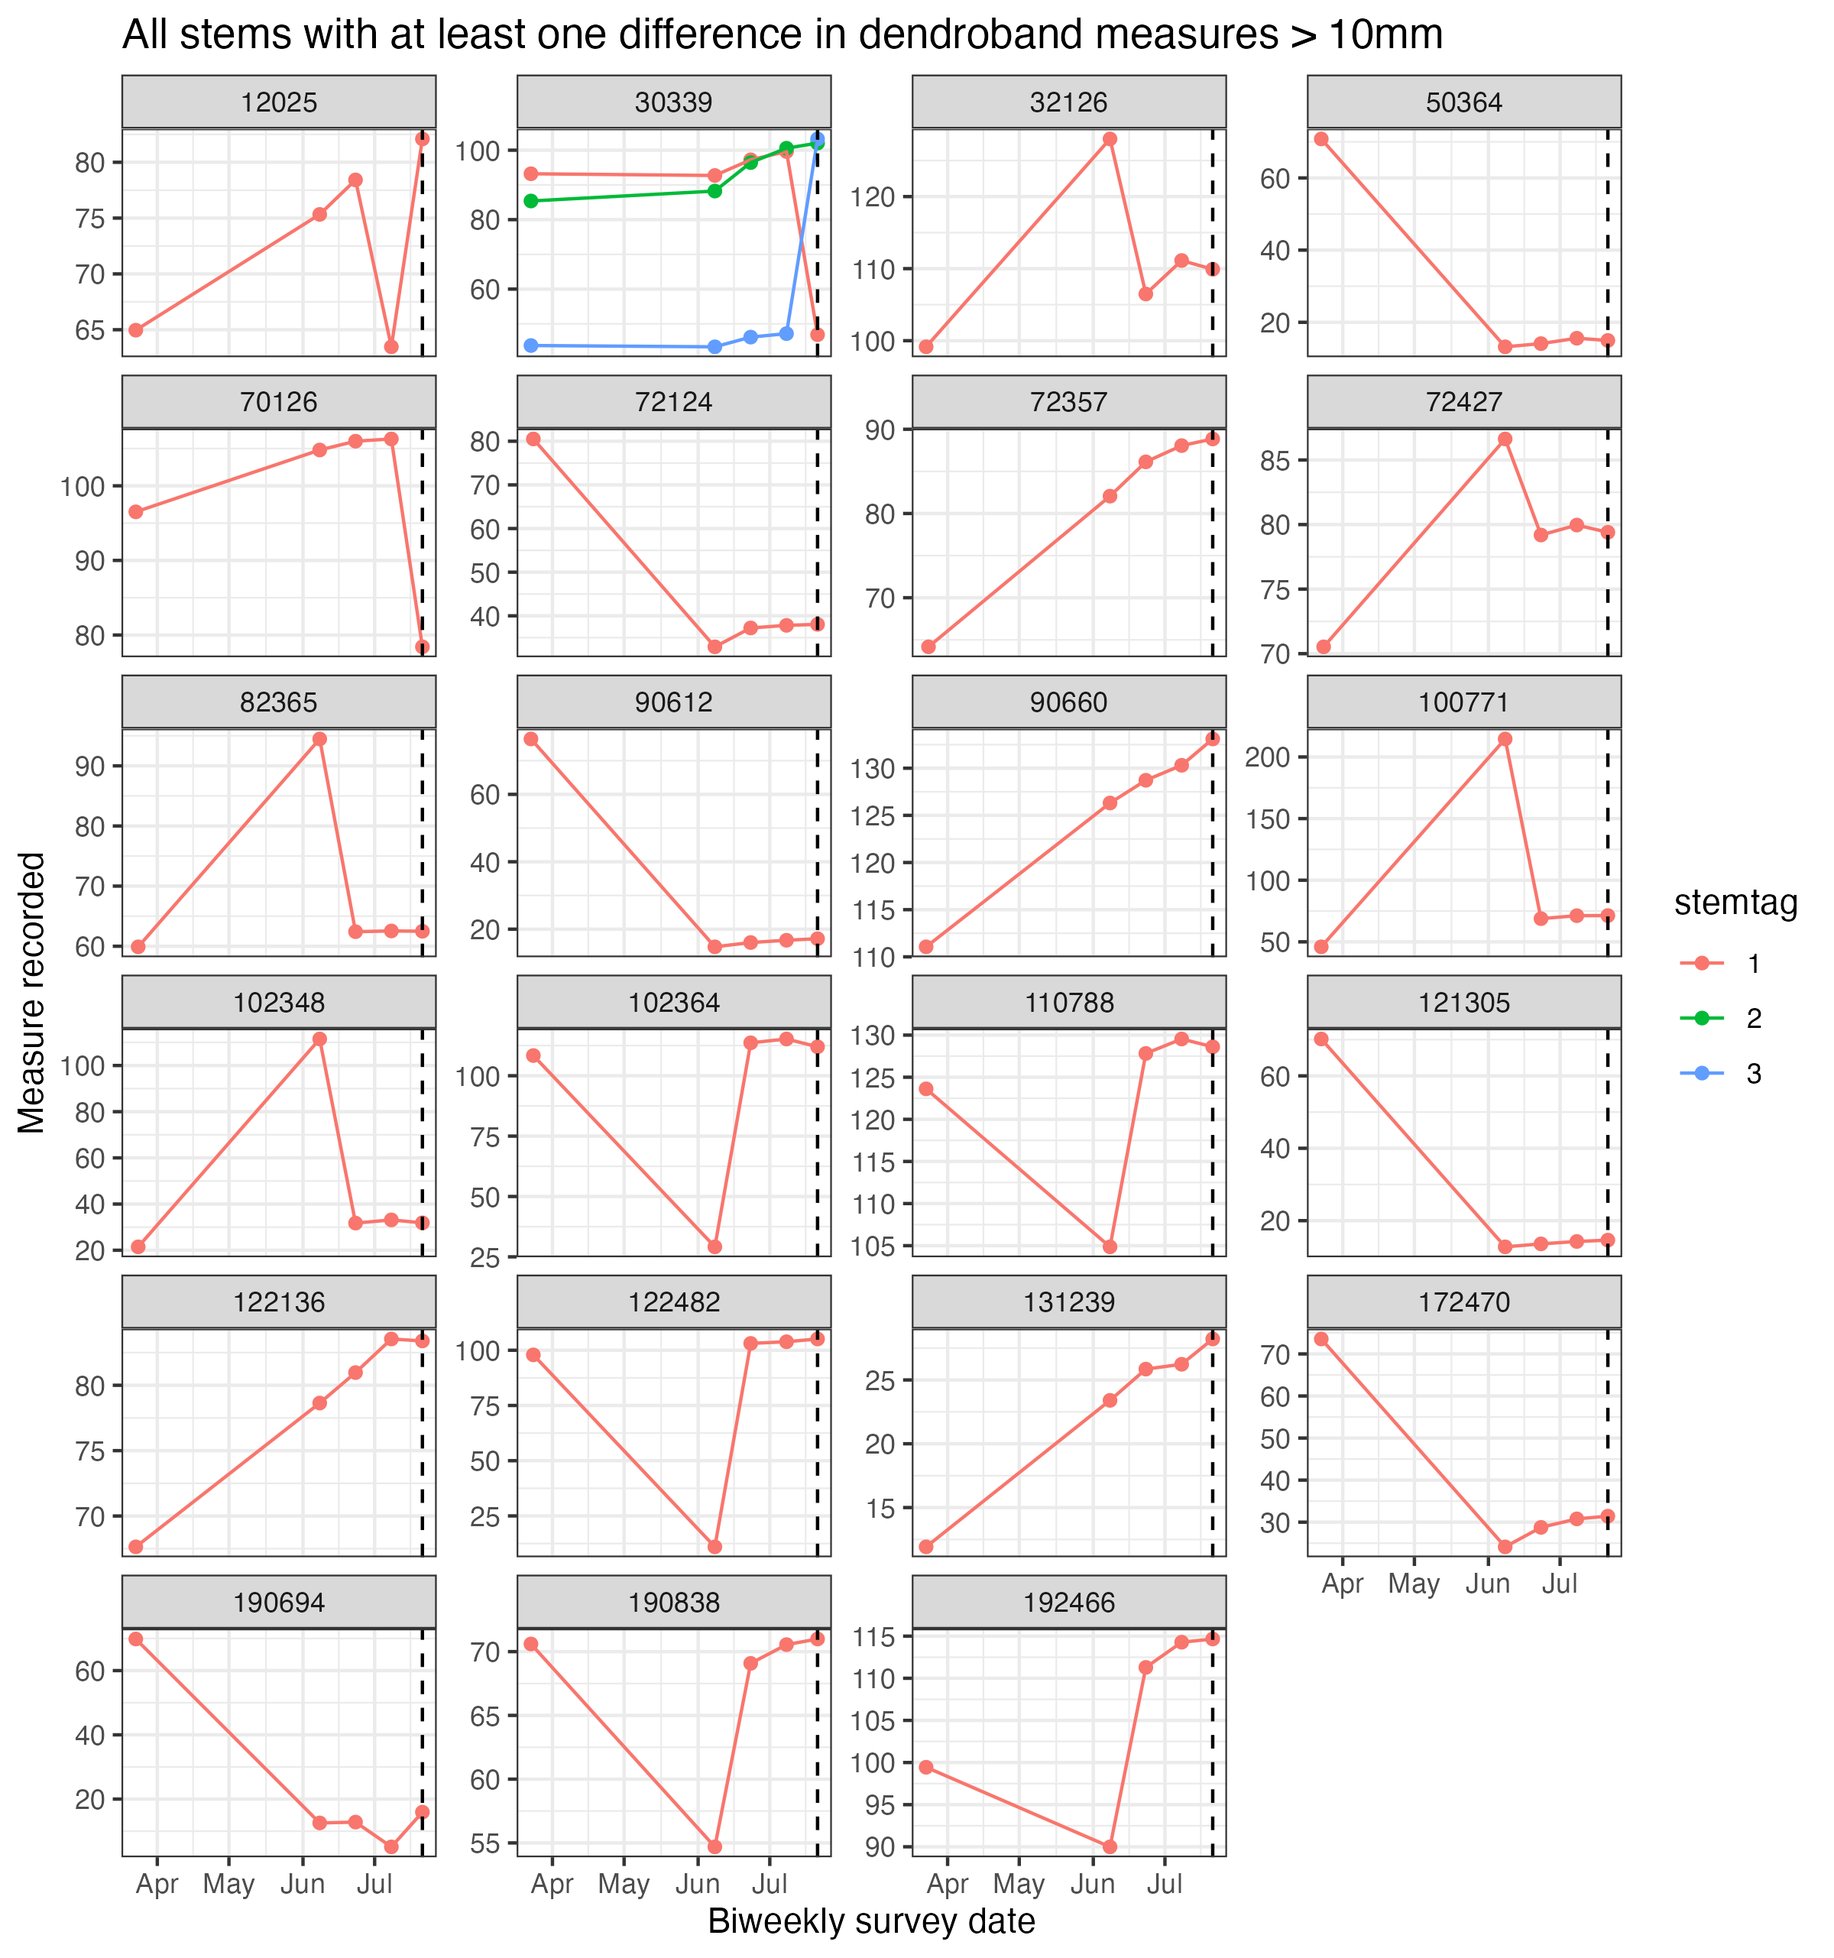
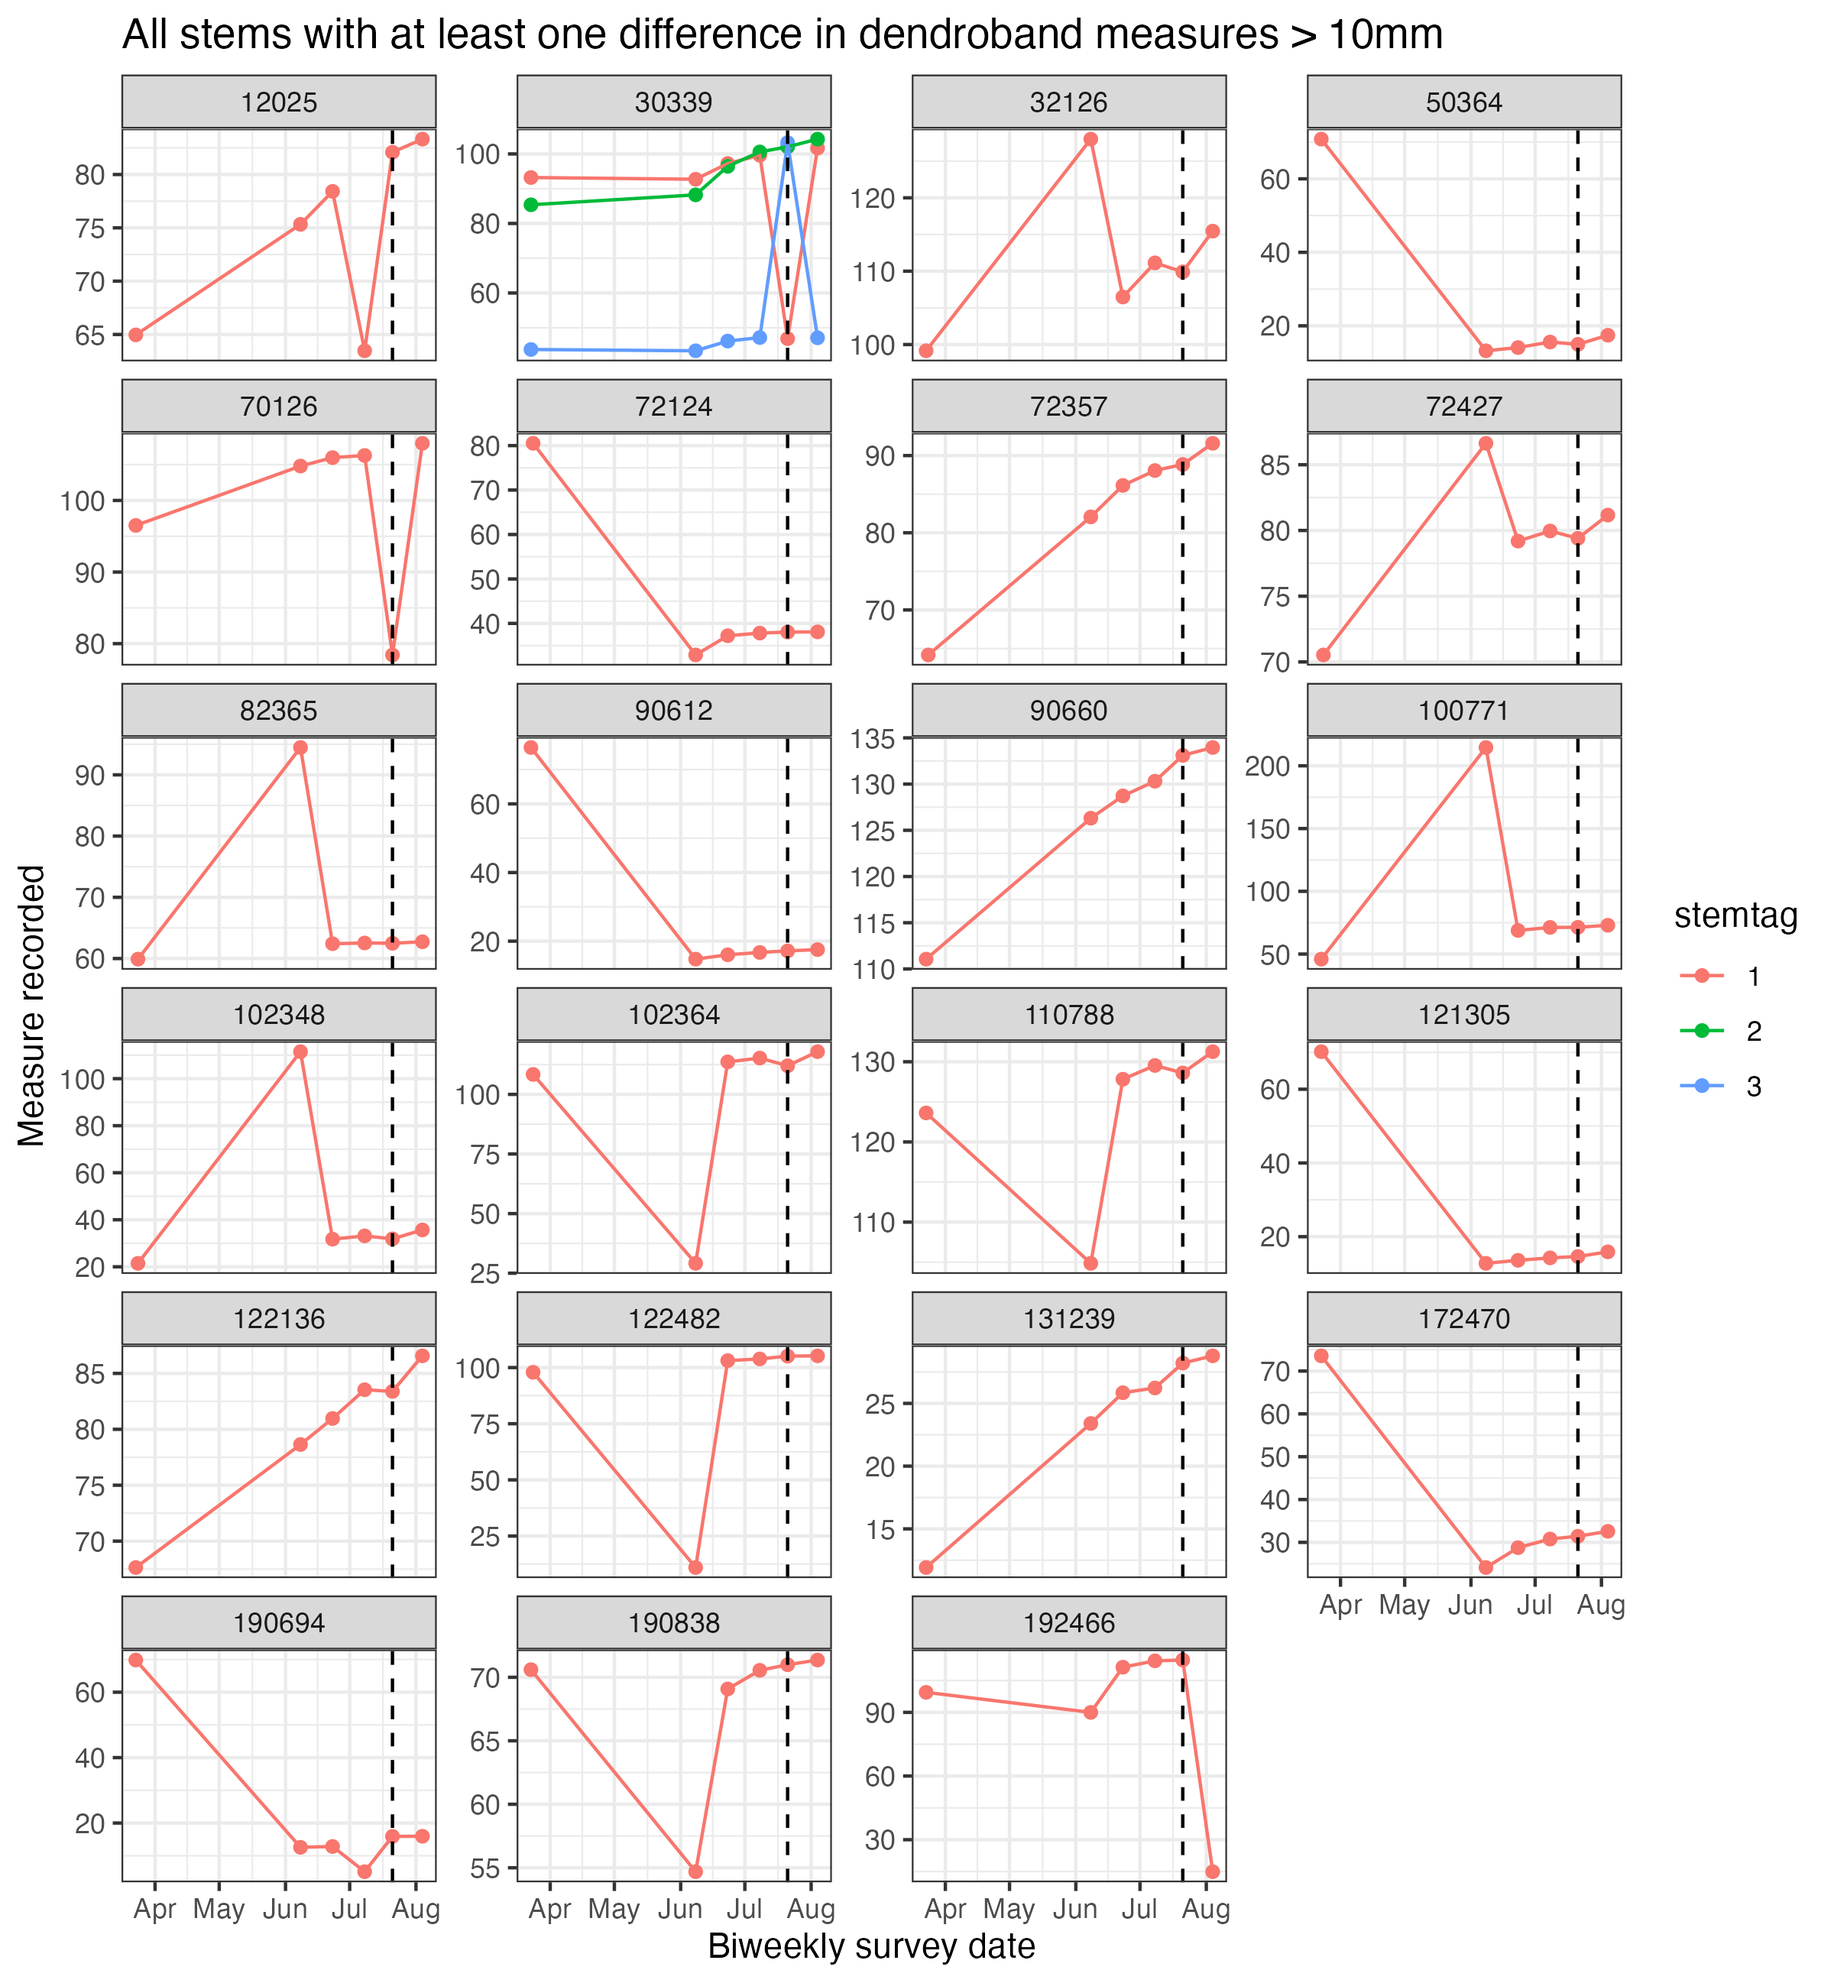
Update GA to produce measurement anomalies

diff --git a/README.md b/README.md
@@ -13,6 +13,11 @@
 [![There_is_no_warnings_:-)](testthat/reports/warnings.png)](https://github.com/SCBI-ForestGEO/Dendrobands/tree/master/testthat/reports/warnings)
 
 
+### measurement anomalies?
+
+![measurement_anomalies](testthat/reports/measurement_anomalies.png)
+
+
 
 ## Overview 
 
